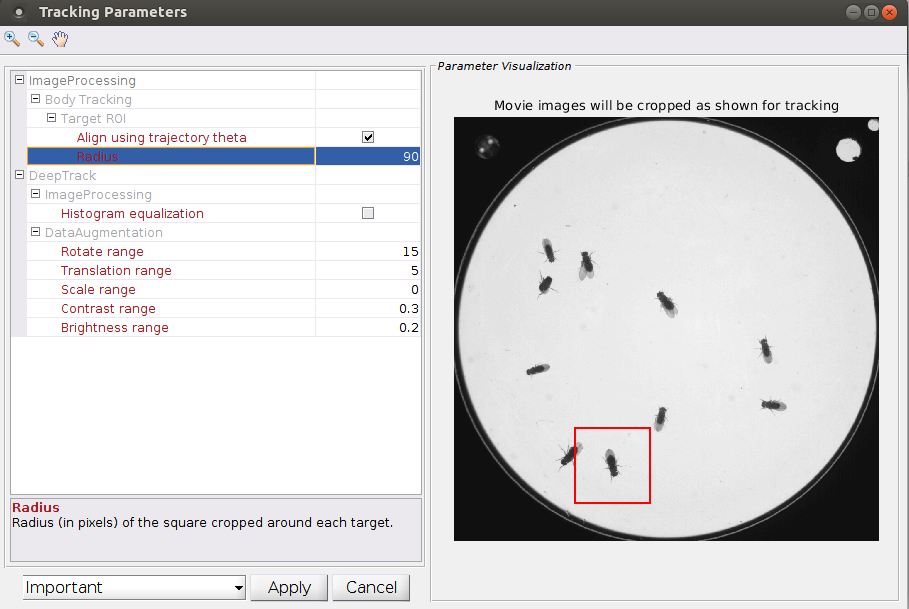
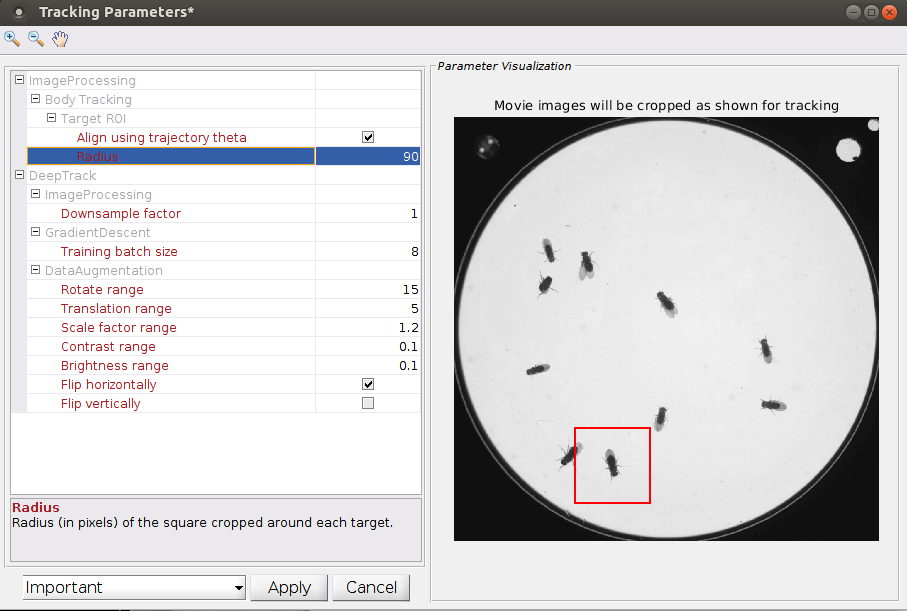
Made dockerremotehost property of DLBackEndClass. This can now be set in the GUI under Track -> GPU Backend/Configuration -> (Docker) set remote host. APT.DOCKER_REMOTE_HOST was removed.
Minor fix to docker config test so that ssh warnings are ignored.

Updates to docs.

diff --git a/docs/index.html b/docs/index.html
@@ -740,7 +740,7 @@ trx(1) =
     <td><center><i>Original training images</i></center></td>
     <td><center><i>Rotate by up to 15 degrees</i></center></td>
     <td><center><i>Translate by up to 5 pixels</i></center></td>
-    <td><center><i>Scale by a factor of between 1/1.1 and 1.1</i></center></td>
+    <td><center><i>Scale by a factor of between 1/1.2 and 1.2</i></center></td>
   </tr>
   <tr>
     <td>
@@ -785,6 +785,23 @@ trx(1) =
 </p>
 <p>Next, set the <b>"Downsample factor"</b> and <b>"Training batch size"</b> parameters so that the network will fit into memory.</p>
 
+<center>
+<table id="table_align" style="width:75%">
+  <tr>
+    <td>
+      <center><a href="images/DownsampleFactor.png"><img width="100%" src="images/DownsampleFactor.png"/></a></center>
+    </td>
+    <td>
+      <center><a href="images/TrainingBatchSize.png"><img width="100%" src="images/TrainingBatchSize.png"/></a></center>
+    </td>
+  </tr>
+  <tr>
+    <td><center><i>Memory requirements for different <b>Downsample factors</b></i></center></td>
+    <td><center><i>Memory requirements for different <b>Training batch sizes</b></i></center></td>
+  </tr>
+</table>
+</center>
+
 <p>The area of the input image is computed as follows.</p>
 <ul>
   <li>We need to know the <b>area of the cropped image</b>.
@@ -793,10 +810,10 @@ trx(1) =
       <li>For projects without body tracking, cropping can be specified by selecting <b><a href="#Edit cropping">"Edit cropping"</a></b> from the File menu. By default, the cropped region is the entire video frame. The crop area is (<var>Area<sub>0</sub></var> = <var>width</var>&#183;<var>height<var>).</li>
     </ul>
   </li>
-  <li>If this crop area is large, we can make it smaller by <b>downsampling</b> the image -- shrinking the image in both width and height. This is specified in the <a href="#TrackingParametersGUI">Tracking parameters GUI</a> as <b>Downsample factor</b>. Downsizing the image has the <b>negative effect</b> of <b>throwing away details</b> that may be important to finding parts. It also <b>reduces final resolution of the output</b> tracking. We recommend downsampling as little as possible. The input image area is reduced by this downsample factor squared: <var>Area</var> = <var>DownsampleFactor</var><sup>2</sup>&#183;<var>Area</var><sub>0</sub></li>
+  <li>If this crop area is large, we can make it smaller by <b>downsampling</b> the image -- shrinking the image in both width and height. This is specified in the <a href="#TrackingParametersGUI">Tracking parameters GUI</a> as <b>Downsample factor</b>. Downsizing the image has the <b>negative effect</b> of <b>throwing away details</b> that may be important to finding parts. It also <b>reduces final resolution of the output</b> tracking. We recommend downsampling as little as possible. The input image area is reduced by this downsample factor squared: <var>Area</var> = <var>DownsampleFactor</var><sup>2</sup>&#183;<var>Area</var><sub>0</sub>. An estimate of the memory required for the current and other Downsample factors is shown in the Parameter visualization window when you select Downsample factor in the Tracking Parameters GUI. </li>
 </ul>
 
-<p>The <b>Training batch size</b> is the number of images the neural network processes at a time during training. Memory requirements <b>increase linearly</b> with the batch size. Neural network performance can degrade with either too large or too small batch sizes. We recommend batch sizes in the range of 2 to 8 images. </p>
+<p>The <b>Training batch size</b> is the number of images the neural network processes at a time during training. Memory requirements <b>increase linearly</b> with the batch size. Neural network performance can degrade with either too large or too small batch sizes. We recommend batch sizes in the range of 2 to 8 images. An estimate of the memory required for the current and other batch sizes is shown in the Parameter visualization window when you select Training batch size in the Tracking Parameters GUI. </p>
 
 <h4>4. Set N. iterations of training</h4>
 

diff --git a/matlab/DLBackEndClass.m b/matlab/DLBackEndClass.m
@@ -26,6 +26,7 @@ classdef DLBackEndClass < handle
     dockerapiver = '1.40'; % docker codegen will occur against this docker api ver
     dockerimgroot = 'bransonlabapt/apt_docker';
     dockerimgtag = 'latest'; % optional tag eg 'tf1.6'
+    dockerremotehost = '';
     
     condaEnv = 'APT'; % used only for Conda
   end
@@ -333,19 +334,25 @@ classdef DLBackEndClass < handle
       tfsucc = true;
     end
     
-    function [tfsucc,clientver,clientapiver] = getDockerVers
+  end
+  
+  methods % Docker
+
+    % KB 20191219: moved this to not be a static function so that we could
+    % use this object's dockerremotehost
+    function [tfsucc,clientver,clientapiver] = getDockerVers(obj)
       % Run docker cli to get docker versions
       %
       % tfsucc: true if docker cli command successful
       % clientver: if tfsucc, char containing client version; indeterminate otherwise
       % clientapiver: if tfsucc, char containing client apiversion; indeterminate otherwise
       
-      if isempty(APT.DOCKER_REMOTE_HOST),
+      if isempty(obj.dockerremotehost),
         dockercmd = 'docker';
         dockercmdend = '';
         filequote = '"';
       else
-        dockercmd = sprintf('ssh -t %s "docker',APT.DOCKER_REMOTE_HOST);
+        dockercmd = sprintf('ssh -t %s "docker',obj.dockerremotehost);
         dockercmdend = '"';
         filequote = '\"';
       end    
@@ -363,25 +370,24 @@ classdef DLBackEndClass < handle
       end
       
       res = regexp(res,'\n','split'); % in case of ssh
-      res = res{1};      
-      res = strtrim(res);
-      toks = regexp(res,'#','split');
-      if numel(toks)~=2
-        return;
-      end
+      for i = 1:numel(res),
+        res1 = res{i};
+        res1 = strtrim(res1);
+        toks = regexp(res1,'#','split');
+        if numel(toks)~=2
+          continue;
+        end
       
-      tfsucc = true;
-      clientver = toks{1};
-      clientapiver = toks{2};
+        tfsucc = true;
+        clientver = toks{1};
+        clientapiver = toks{2};
+        break;
+      end
     end
     
-  end
-   
-  methods % Docker
-
-    function filequote = getFileQuoteDockerCodeGen(obj) %#ok<MANU>
+    function filequote = getFileQuoteDockerCodeGen(obj) 
       % get filequote to use with codeGenDockerGeneral      
-      if isempty(APT.DOCKER_REMOTE_HOST)
+      if isempty(obj.dockerremotehost)
         % local Docker run
         filequote = '"';
       else
@@ -447,7 +453,7 @@ classdef DLBackEndClass < handle
       
       dockerApiVerExport = sprintf('export DOCKER_API_VERSION=%s;',obj.dockerapiver);
       
-      if isempty(APT.DOCKER_REMOTE_HOST),
+      if isempty(obj.dockerremotehost),
         % local Docker run
         dockercmd = sprintf('%s docker',dockerApiVerExport);
         dockercmdend = '';
@@ -457,7 +463,7 @@ classdef DLBackEndClass < handle
           error('Docker execution on remote host currently unsupported on Windows.');
           % Might work fine, maybe issue with double-quotes
         end
-        dockercmd = sprintf('ssh -t %s "%s docker',APT.DOCKER_REMOTE_HOST,dockerApiVerExport);
+        dockercmd = sprintf('ssh -t %s "%s docker',obj.dockerremotehost,dockerApiVerExport);
         dockercmdend = '"';
         filequote = '\"';
       end
@@ -506,11 +512,11 @@ classdef DLBackEndClass < handle
       hedit.String{end+1} = ''; drawnow;
       hedit.String{end+1} = '** Testing docker hello-world...'; drawnow;
       
-      if isempty(APT.DOCKER_REMOTE_HOST),
+      if isempty(obj.dockerremotehost),
         dockercmd = 'docker';
         dockercmdend = '';
       else
-        dockercmd = sprintf('ssh -t %s "docker',APT.DOCKER_REMOTE_HOST);
+        dockercmd = sprintf('ssh -t %s "docker',obj.dockerremotehost);
         dockercmdend = '"';
       end      
       cmd = sprintf('%s run hello-world%s',dockercmd,dockercmdend);
@@ -530,11 +536,13 @@ classdef DLBackEndClass < handle
       hedit.String{end+1} = ''; drawnow;
       hedit.String{end+1} = '** Checking docker API version...'; drawnow;
       
-      [tfsucc,clientver,clientapiver] = DLBackEndClass.getDockerVers;
+      [tfsucc,clientver,clientapiver] = obj.getDockerVers;
       if ~tfsucc        
         hedit.String{end+1} = 'FAILURE. Failed to ascertain docker API version.'; drawnow;
         return;
       end
+      
+      tfsucc = false;
       % In this conditional we assume the apiver numbering scheme continues
       % like '1.39', '1.40', ... 
       if ~(str2double(clientapiver)>=str2double(obj.dockerapiver))          

diff --git a/matlab/LabelerGUI.m b/matlab/LabelerGUI.m
@@ -1916,7 +1916,7 @@ if ~isfield(handles,'menu_track_backend_config')
     'userdata',DLBackEnd.AWS);
   handles.menu_track_backend_config_docker = uimenu( ...
     'Parent',handles.menu_track_backend_config,...
-    'Label','Local (Docker)',...
+    'Label','Docker',...
     'Callback',@cbkTrackerBackendMenu,...
     'Tag','menu_track_backend_config_docker',...
     'userdata',DLBackEnd.Docker);  
@@ -1955,6 +1955,14 @@ if ~isfield(handles,'menu_track_backend_config')
     'Label','(AWS) Configure...',...
     'Callback',@cbkTrackerBackendAWSConfigure,...
     'Tag','menu_track_backend_config_aws_configure');  
+  
+  % KB added menu item to set Docker host
+  handles.menu_track_backend_config_setdockerssh = uimenu( ...
+    'Parent',handles.menu_track_backend_config,...
+    'Label','(Docker) Set remote host...',...
+    'Callback',@cbkTrackerBackendSetDockerSSH,...
+    'Tag','menu_track_backend_config_setdockerssh');  
+
   
 %   handles.menu_track_backends{end+1,1} = uimenu( ...
 %     'Parent',handles.menu_track_backend_config,...
@@ -2048,6 +2056,7 @@ set(handles.menu_track_backend_config_conda,'checked',onIff(lObj.trackDLBackEnd.
 set(handles.menu_track_backend_config_aws,'checked',onIff(lObj.trackDLBackEnd.type==DLBackEnd.AWS));
 set(handles.menu_track_backend_config_aws_setinstance,'visible',onIff(lObj.trackDLBackEnd.type==DLBackEnd.AWS));
 set(handles.menu_track_backend_config_aws_configure,'visible',onIff(lObj.trackDLBackEnd.type==DLBackEnd.AWS));
+set(handles.menu_track_backend_config_setdockerssh,'visible',onIff(lObj.trackDLBackEnd.type==DLBackEnd.Docker));
 
 % Menu item ordering getting messed up somewhere
 handles.menu_track_backend_config_aws_setinstance.Separator = 'on';
@@ -2058,6 +2067,7 @@ handles.menu_track_backend_config_conda.Position = 4;
 handles.menu_track_backend_config_moreinfo.Position = 5;
 handles.menu_track_backend_config_aws_setinstance.Position = 6;
 handles.menu_track_backend_config_aws_configure.Position = 7;
+handles.menu_track_backend_config_setdockerssh.Position = 8;
 
 function cbkTrackerMenu(src,evt)
 handles = guidata(src);
@@ -2162,6 +2172,54 @@ if tfsucc
   %aws.checkInstanceRunning('throwErrs',false);
 %   lObj.trackSetDLBackend(be);
 end
+
+function cbkTrackerBackendSetDockerSSH(src,evt)
+handles = guidata(src);
+lObj = handles.labelerObj;
+%be = lObj.trackDLBackEnd;
+assert(lObj.trackDLBackEnd.type==DLBackEnd.Docker);
+drh = lObj.trackDLBackEnd.dockerremotehost;
+if isempty(drh),
+  defans = 'Local';
+else
+  defans = 'Remote';
+end
+
+res = questdlg('Run docker on your Local machine, or SSH to a Remote machine?',...
+  'Set Docker Remote Host','Local','Remote','Cancel',defans);
+if strcmpi(res,'Cancel'),
+  return;
+end
+if strcmpi(res,'Remote'),
+  res = inputdlg({'Remote Host Name:'},'Set Docker Remote Host',1,{drh});
+  if isempty(res) || isempty(res{1}),
+    return;
+  end
+  lObj.trackDLBackEnd.dockerremotehost = res{1};
+else
+  lObj.trackDLBackEnd.dockerremotehost = '';
+end
+
+ischange = ~strcmp(drh,lObj.trackDLBackEnd.dockerremotehost);
+
+if ischange,
+  res = questdlg('Test new Docker configuration now?','Test Docker configuration','Yes','No','Yes');
+  if strcmpi(res,'Yes'),
+    try
+      [tfsucc,hedit] = lObj.trackDLBackEnd.testDockerConfig();
+    catch ME,
+      tfsucc = false;
+      disp(getReport(ME));
+    end
+    if ~tfsucc,
+      res = questdlg('Test failed. Revert to previous Docker settings?','Backend test failed','Yes','No','Yes');
+      if strcmpi(res,'Yes'),
+        lObj.trackDLBackEnd.dockerremotehost = drh;
+      end
+    end
+  end
+end
+
 
 function cbkTrackersAllChanged(src,evt)
 lObj = evt.AffectedObject;
@@ -2371,7 +2429,13 @@ oc1 = onCleanup(@()ClearStatus(handles));
 wbObj = WaitBarWithCancel('Training');
 oc2 = onCleanup(@()delete(wbObj));
 centerOnParentFigure(wbObj.hWB,handles.figure);
-handles.labelerObj.trackRetrain('retrainArgs',{'wbObj',wbObj});
+try
+  handles.labelerObj.trackRetrain('retrainArgs',{'wbObj',wbObj});
+catch ME
+  errordlg(ME.message,'Error while training','modal');
+  disp(getReport(ME));
+  return;
+end
 if wbObj.isCancel
   msg = wbObj.cancelMessage('Training canceled');
   msgbox(msg,'Train');

diff --git a/matlab/trackers/dt/DeepTracker.m b/matlab/trackers/dt/DeepTracker.m
@@ -514,10 +514,11 @@ classdef DeepTracker < LabelTracker
     
     % if we don't need to be careful with quotes, we can use this
     function s = dockercmd(obj)
-      if isempty(APT.DOCKER_REMOTE_HOST),
+      be = obj.lObj.trackDLBackEnd;
+      if isempty(be.dockerremotehost),
         s = 'docker';
       else
-        s = sprintf('ssh -t %s docker',APT.DOCKER_REMOTE_HOST);
+        s = sprintf('ssh -t %s docker',be.dockerremotehost);
       end
     end
     
@@ -584,7 +585,7 @@ classdef DeepTracker < LabelTracker
         case DLBackEnd.Conda
           trnWrkObj = BgTrainWorkerObjConda(nvw,dmcs);
         case DLBackEnd.Docker
-          trnWrkObj = BgTrainWorkerObjDocker(nvw,dmcs);
+          trnWrkObj = BgTrainWorkerObjDocker(nvw,dmcs,backEnd);
         case DLBackEnd.AWS
           trnWrkObj = BgTrainWorkerObjAWS(nvw,dmcs,backEnd.awsec2);
         otherwise
@@ -2604,7 +2605,7 @@ classdef DeepTracker < LabelTracker
         case DLBackEnd.Conda,
           bgTrkWorkerObj = BgTrackWorkerObjConda(nView,dmc);
         case DLBackEnd.Docker,
-          bgTrkWorkerObj = BgTrackWorkerObjDocker(nView,dmc);
+          bgTrkWorkerObj = BgTrackWorkerObjDocker(nView,dmc,backend);
       end
       % working here -- make this work with multiple movies
       bgTrkWorkerObj.initFiles(mIdx,movs,outfiles,...

diff --git a/matlab/trackers/dt/BgWorkerObjDocker.m b/matlab/trackers/dt/BgWorkerObjDocker.m
@@ -1,9 +1,14 @@
 classdef BgWorkerObjDocker < BgWorkerObjLocalFilesys  
   
+  properties
+    dockerremotehost = '';
+  end
+
   methods
     
-    function obj = BgWorkerObjDocker(varargin)
-      obj@BgWorkerObjLocalFilesys(varargin{:});
+    function obj = BgWorkerObjDocker(nviews,dmcs,backend,varargin)
+      obj@BgWorkerObjLocalFilesys(nviews,dmcs,varargin{:});
+      obj.dockerremotehost = backend.dockerremotehost;
     end
     
     function parseJobID(obj,res,iview,imov)
@@ -24,10 +29,10 @@ classdef BgWorkerObjDocker < BgWorkerObjLocalFilesys
     
     function s = dockercmd(obj)
       
-      if isempty(APT.DOCKER_REMOTE_HOST),
+      if isempty(obj.dockerremotehost),
         s = 'docker';
       else
-        s = sprintf('ssh -t %s docker',APT.DOCKER_REMOTE_HOST);
+        s = sprintf('ssh -t %s docker',obj.dockerremotehost);
       end
 
     end

diff --git a/APT.m b/APT.m
@@ -11,7 +11,7 @@ classdef APT
 %     BUILDMCCFILE = 'build.mcc';
 %     BUILDMCCFULLFILE = fullfile(APT.Root,APT.BUILDMCCFILE);
 
-    DOCKER_REMOTE_HOST = ''; % Conceptually this prob belongs in DLBackEndClass
+    %DOCKER_REMOTE_HOST = ''; % Conceptually this prob belongs in DLBackEndClass
     %DOCKER_REMOTE_HOST = 'bransonk-ws3'; % Conceptually this prob belongs in DLBackEndClass
     
     % for now, hard-coded to use default loc for git

diff --git a/matlab/trackers/dt/BgTrackWorkerObjDocker.m b/matlab/trackers/dt/BgTrackWorkerObjDocker.m
@@ -1,7 +1,7 @@
 classdef BgTrackWorkerObjDocker < BgWorkerObjDocker & BgTrackWorkerObj  
   methods    
     function obj = BgTrackWorkerObjDocker(varargin)
-      obj@BgTrackWorkerObj(varargin{:});
+      obj@BgWorkerObjDocker(varargin{:});
     end    
   end
 end
